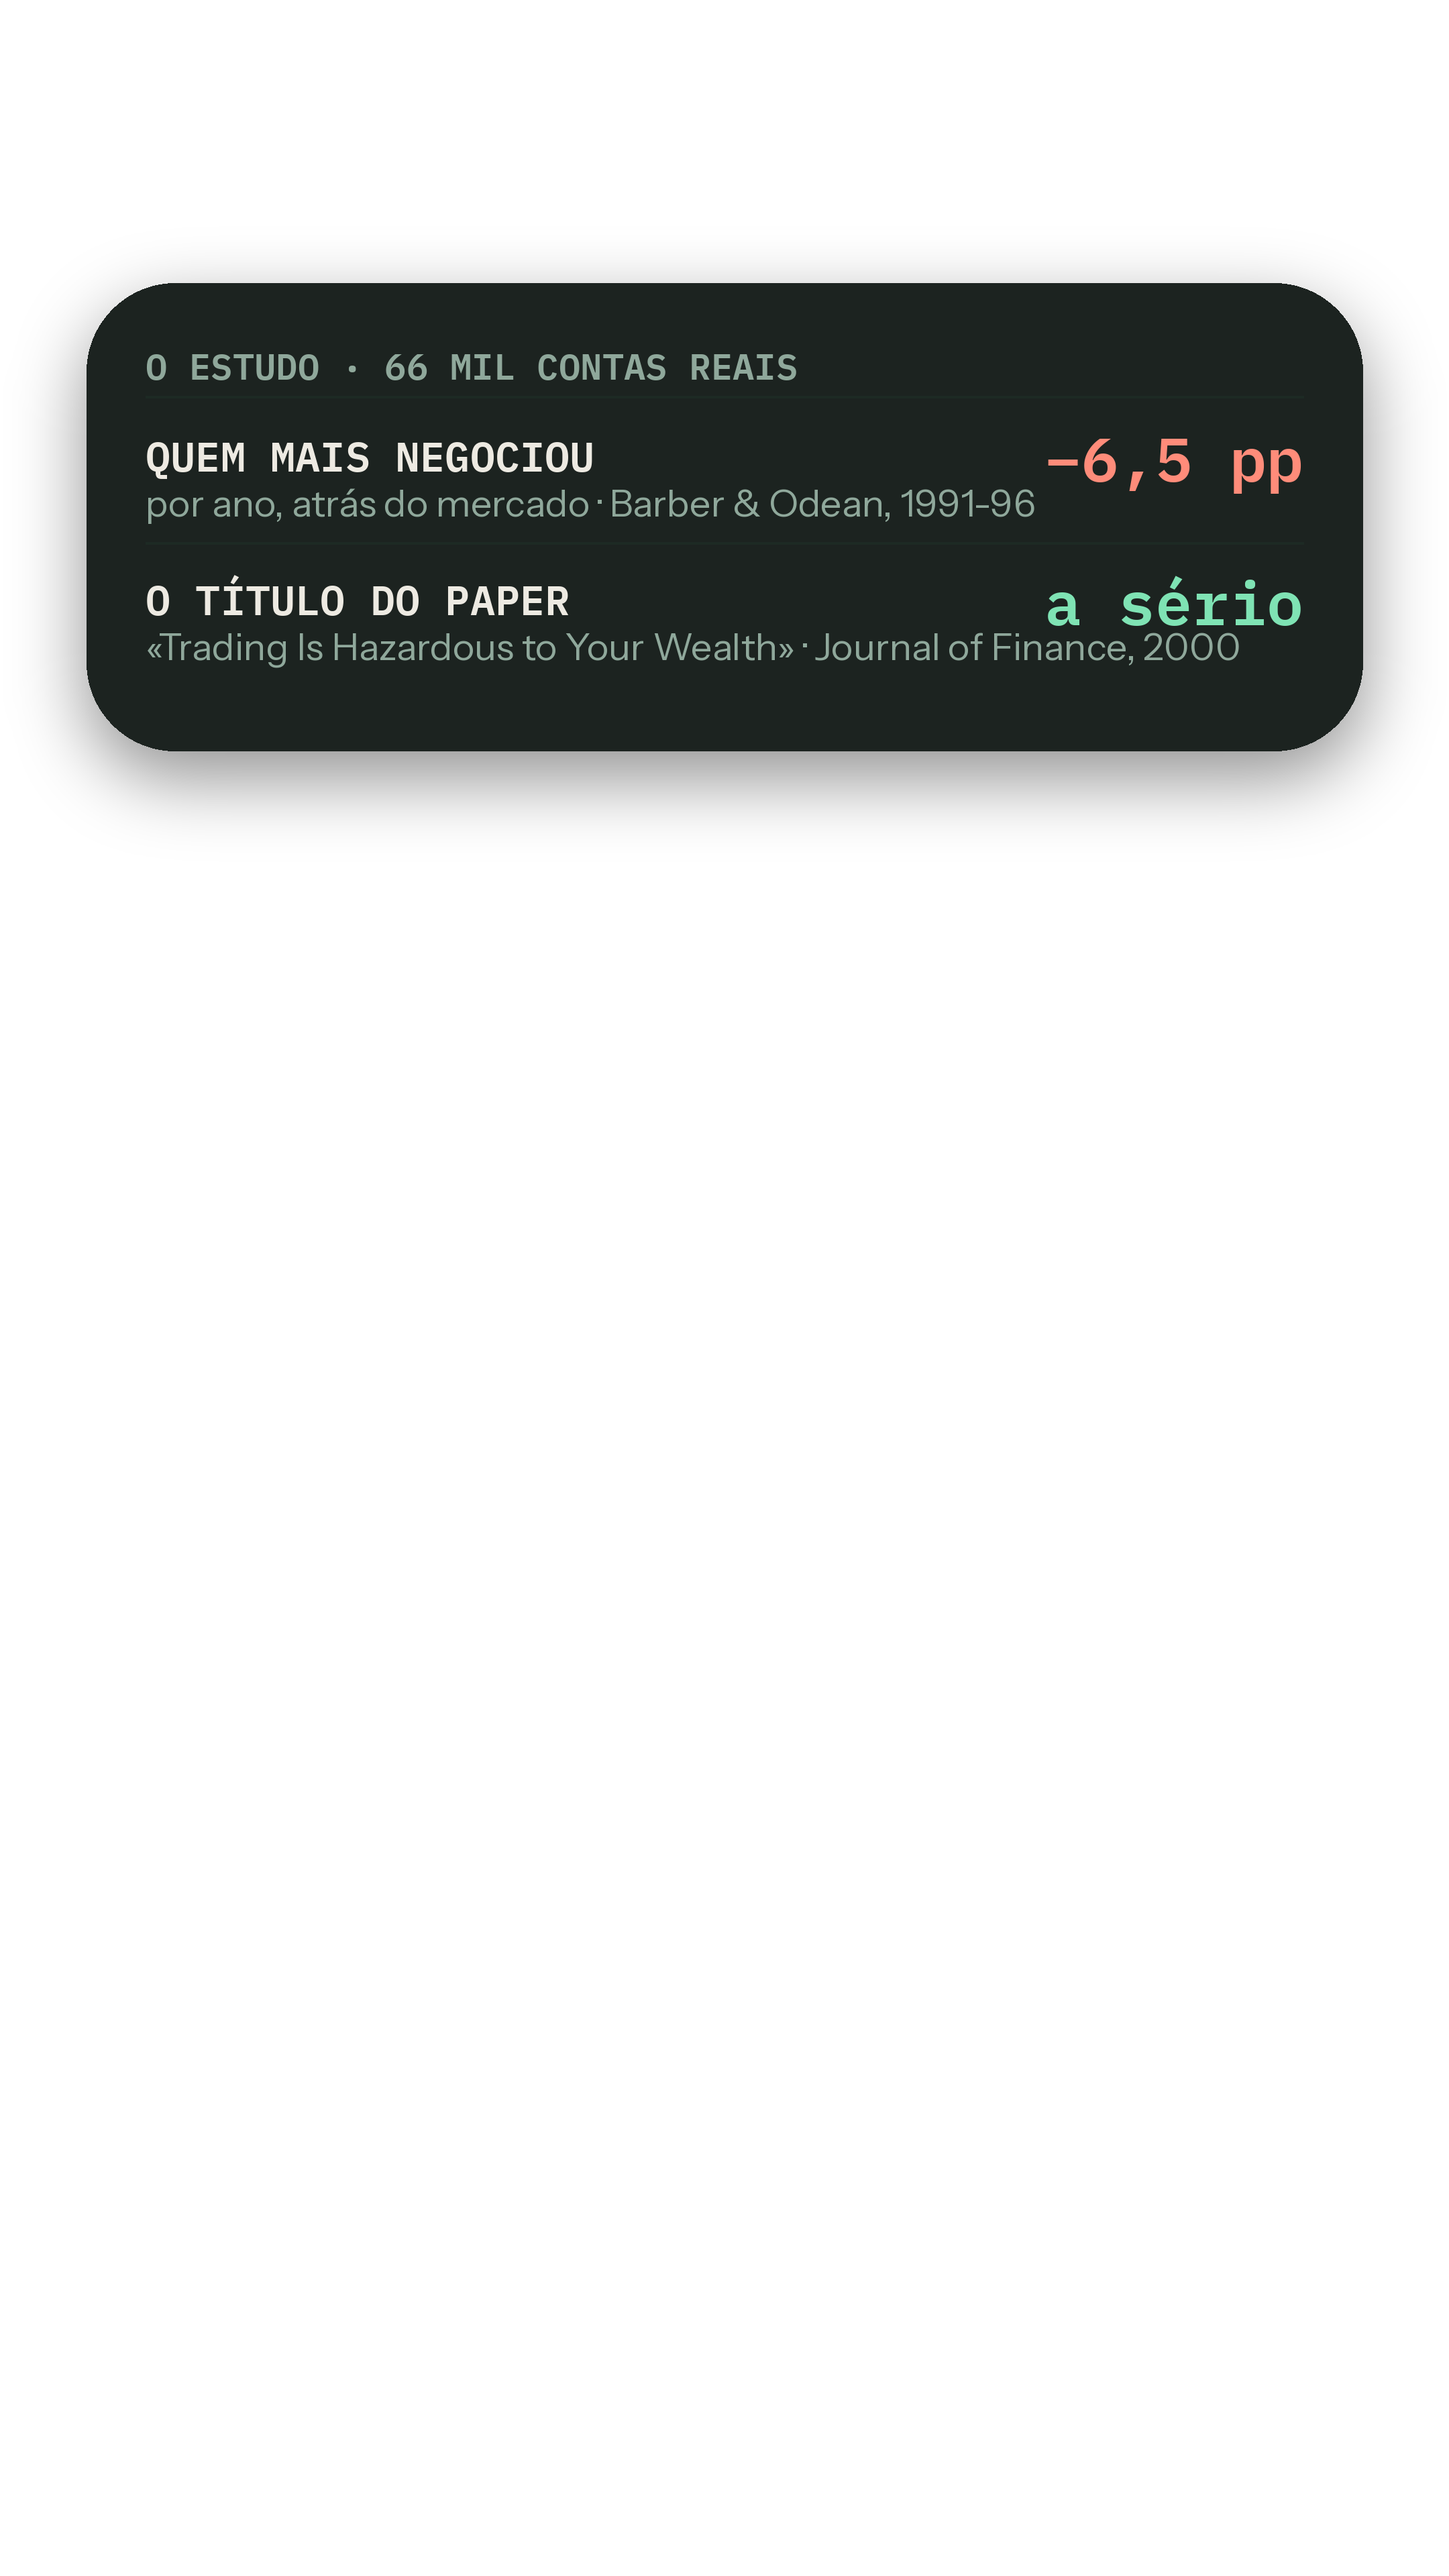
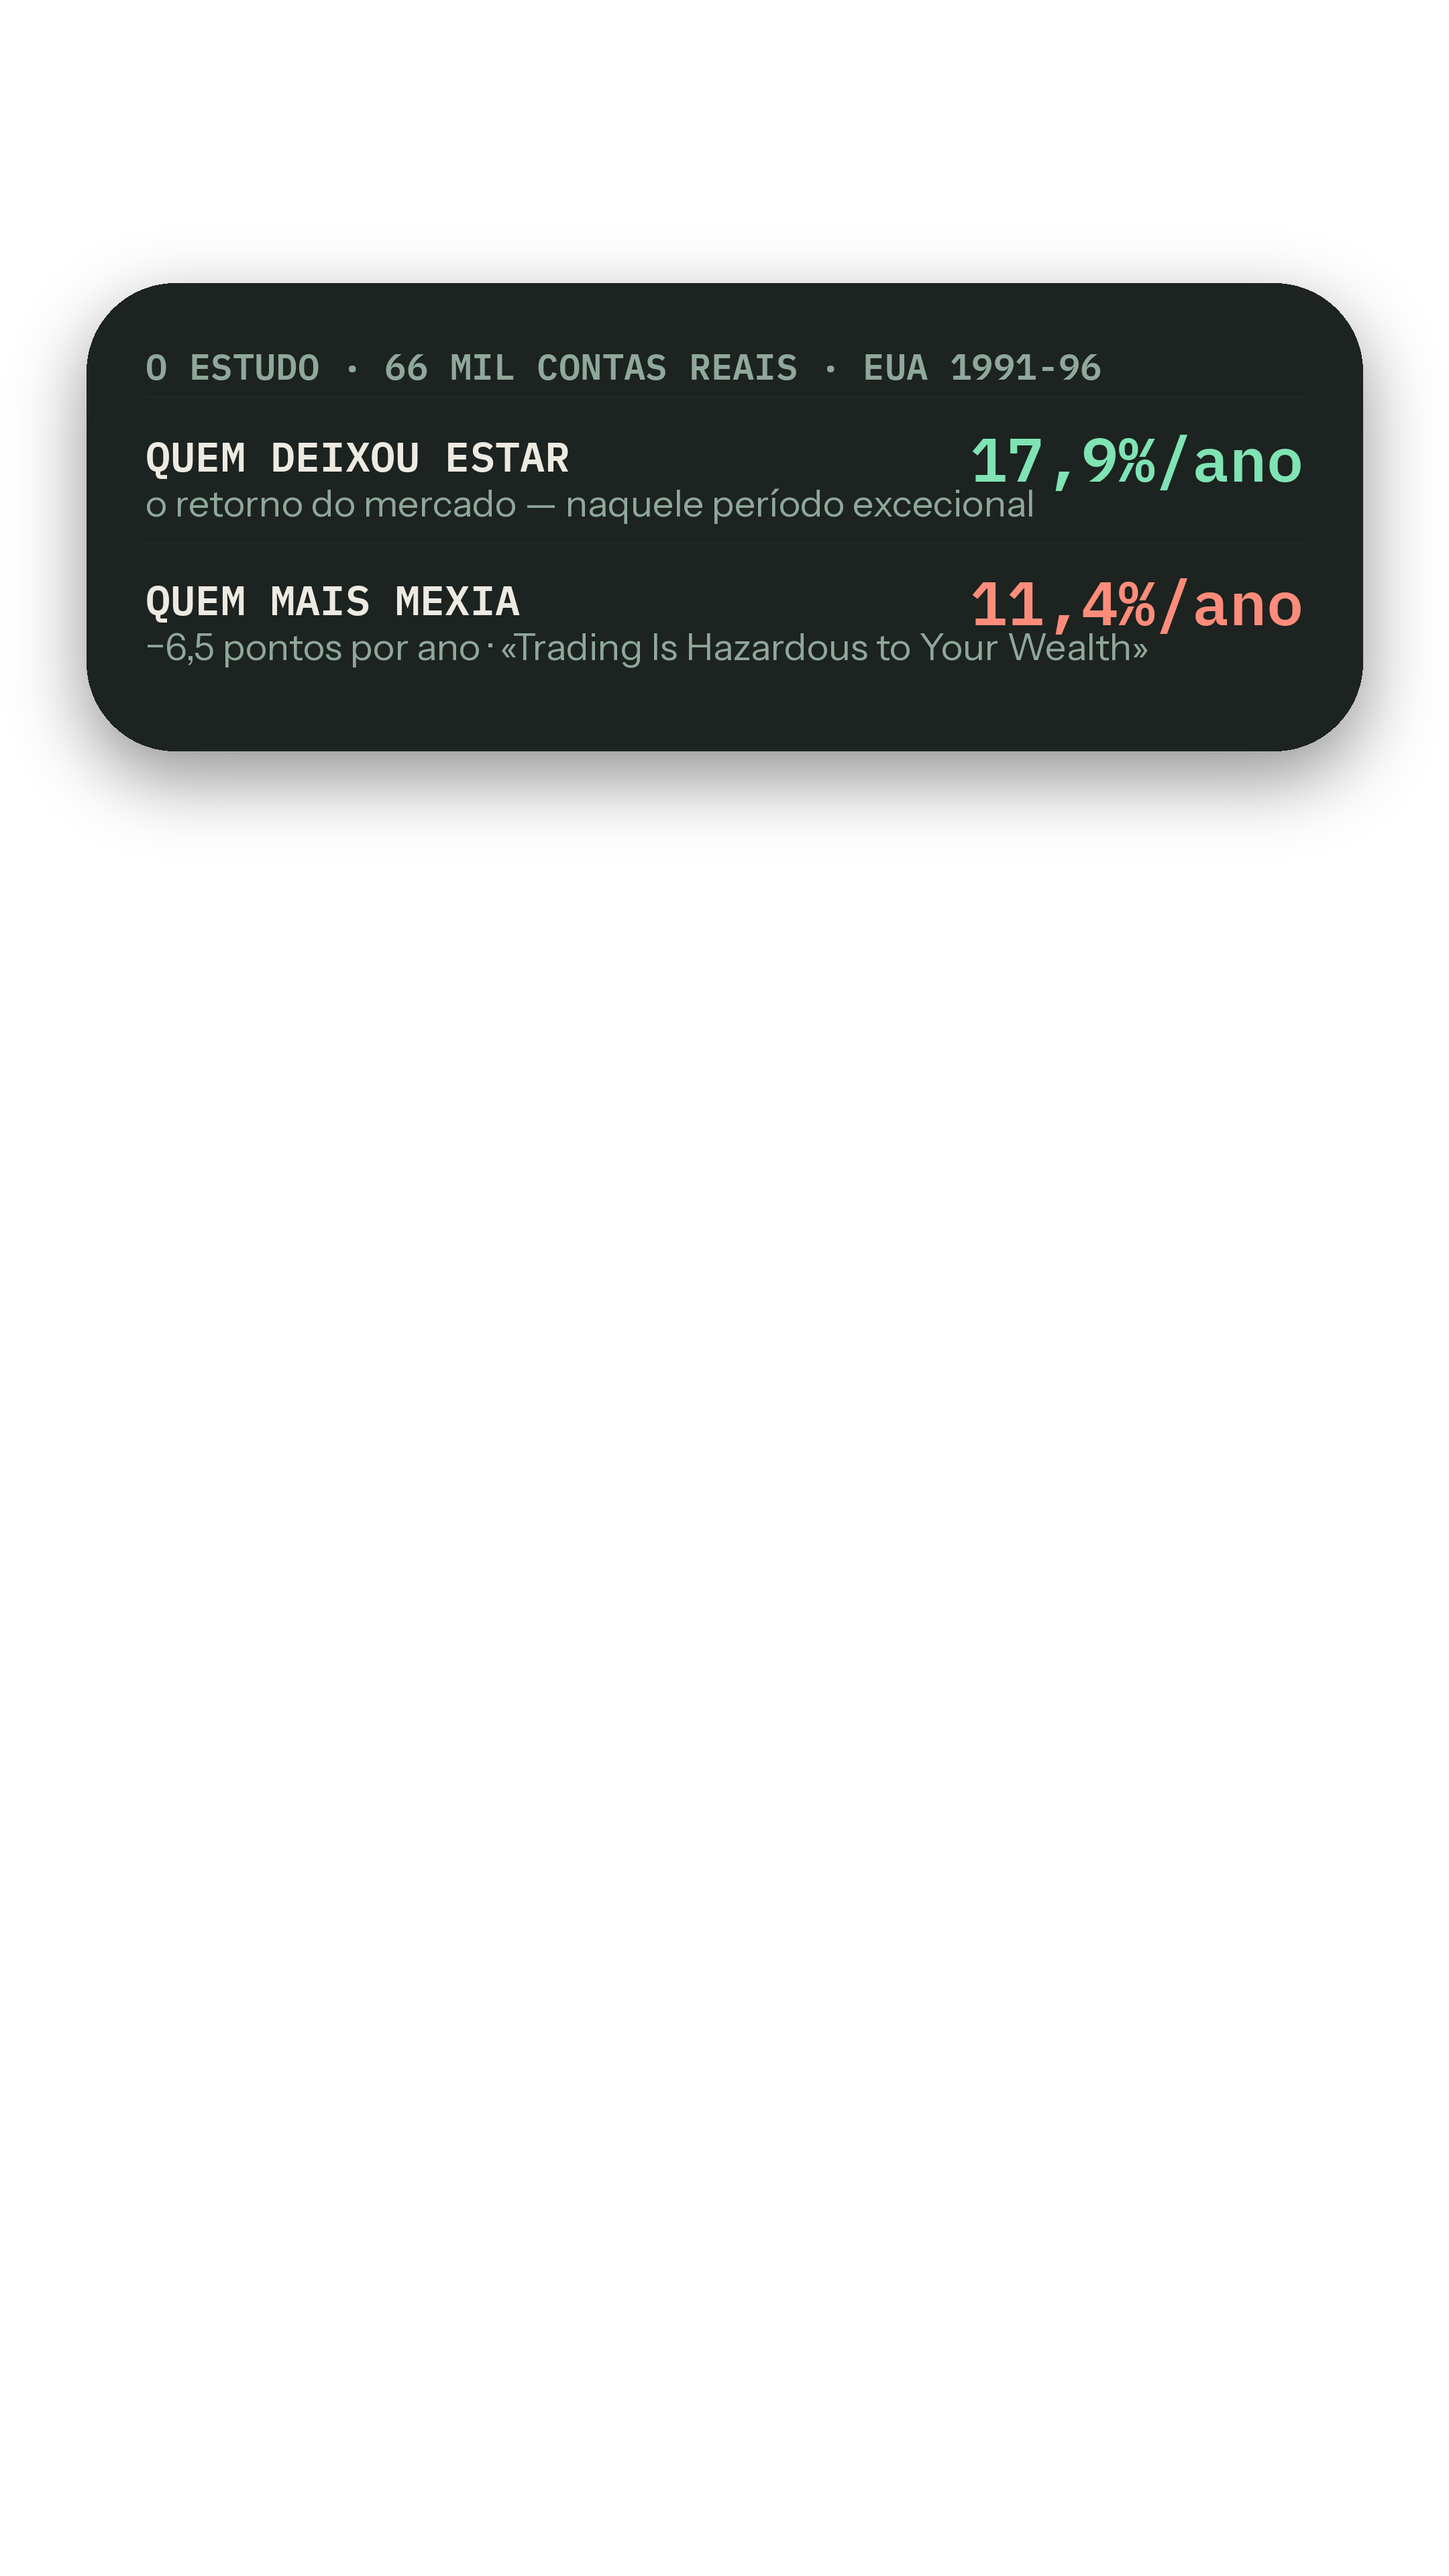
Add files via upload

Changed region(s): [[0.1241, 0.125, 0.8995, 0.2812], [0.4653, 0.25, 0.4963, 0.2812]]

diff --git a/producao/video-19/storyboard.html b/producao/video-19/storyboard.html
@@ -43,47 +43,47 @@ a{color:var(--mint)}
 <div class="row"><span class="k">📺 Overlay</span><span><code>v19-7-fgv.png</code></span></div>
 <div class="row"><span class="k">🏷 Etiqueta</span><span><code>fonte-estudos.png</code> — FONTE: FGV/CVM · 2013-2015</span></div>
 </div></div>
-<div class="bloco"><div class="bhead"><h2>BLOCO 2</h2><span class="t">9-16s</span></div>
-<div class="phone"><div class="sil"></div><div class="noov">SEM OVERLAY — só tu e a câmara</div></div>
-<div class="spec">
-<div class="row"><span class="k">🎙 Fala</span><span class="fala">"Só 1% ganhou mais que um salário mínimo. E não é falta de inteligência — é o cérebro."</span></div>
-<div class="row"><span class="k">🎬 Câmara</span><span>Manter o cartão; a viragem do vídeo começa aqui.</span></div>
-<div class="row"><span class="k">📺 Overlay</span><span>nenhum (manter o anterior / respiro)</span></div>
-<div class="row"><span class="k">🏷 Etiqueta</span><span>fora (sem dado no ecrã)</span></div>
-</div></div>
-<div class="bloco"><div class="bhead"><h2>BLOCO 3</h2><span class="t">16-20s</span></div>
+<div class="bloco"><div class="bhead"><h2>BLOCO 2</h2><span class="t">9-18s</span></div>
 <div class="phone"><div class="sil"></div><img class="ov" src="overlays/v19-1-hook.png" alt=""></div>
 <div class="spec">
-<div class="row"><span class="k">🎙 Fala</span><span class="fala">"O teu faz o mesmo, mesmo sem nunca teres feito trading."</span></div>
-<div class="row"><span class="k">🎬 Câmara</span><span>Dedo à câmara com sorriso — cúmplice, não acusador.</span></div>
+<div class="row"><span class="k">🎙 Fala</span><span class="fala">"Só 1% ganhou mais que um salário mínimo. Não é burrice — é o cérebro. E o teu faz o mesmo, sem nunca teres feito trading."</span></div>
+<div class="row"><span class="k">🎬 Câmara</span><span>A viragem; dedo à câmara com sorriso no fim.</span></div>
 <div class="row"><span class="k">📺 Overlay</span><span><code>v19-1-hook.png</code></span></div>
 <div class="row"><span class="k">🏷 Etiqueta</span><span>fora (sem dado no ecrã)</span></div>
 </div></div>
-<div class="bloco"><div class="bhead"><h2>BLOCO 4</h2><span class="t">20-30s</span></div>
+<div class="bloco"><div class="bhead"><h2>BLOCO 3</h2><span class="t">18-25s</span></div>
 <div class="phone"><div class="sil"></div><img class="ov" src="overlays/v19-2-ciclo.png" alt=""></div>
 <div class="spec">
-<div class="row"><span class="k">🎙 Fala</span><span class="fala">"O mercado sobe, sentes que estás a ficar de fora — compras no topo. Cai, o medo grita mais alto que o plano — vendes no fundo."</span></div>
+<div class="row"><span class="k">🎙 Fala</span><span class="fala">"Sobe — medo de ficar de fora, compras no topo. Cai — o medo grita mais alto que o plano, vendes no fundo."</span></div>
 <div class="row"><span class="k">🎬 Câmara</span><span>Mão desenha a onda; nomear as emoções devagar.</span></div>
 <div class="row"><span class="k">📺 Overlay</span><span><code>v19-2-ciclo.png</code></span></div>
 <div class="row"><span class="k">🏷 Etiqueta</span><span>fora (sem dado no ecrã)</span></div>
 </div></div>
-<div class="bloco"><div class="bhead"><h2>BLOCO 5</h2><span class="t">30-42s</span></div>
-<div class="phone"><div class="sil"></div><img class="ov" src="overlays/v19-6-estudo.png" alt=""></div>
+<div class="bloco"><div class="bhead"><h2>BLOCO 4</h2><span class="t">25-40s</span></div>
+<div class="phone"><div class="sil"></div><img class="ov" src="overlays/v19-8-apps.png" alt=""></div>
 <div class="spec">
-<div class="row"><span class="k">🎙 Fala</span><span class="fala">"A ciência mediu: em 66 mil contas normais, quem mais MEXIA ficou seis vírgula cinco pontos por ano atrás do mercado. O problema não é investir — é mexer por emoção."</span></div>
-<div class="row"><span class="k">🎬 Câmara</span><span>«MEXIA» com ênfase; a frase final é a tese do vídeo.</span></div>
-<div class="row"><span class="k">📺 Overlay</span><span><code>v19-6-estudo.png</code></span></div>
-<div class="row"><span class="k">🏷 Etiqueta</span><span><code>fonte-estudos.png</code> — FONTE: JOURNAL OF FINANCE · 2000</span></div>
+<div class="row"><span class="k">🎙 Fala</span><span class="fala">"«Mas isso era antigamente…» Os cientistas voltaram a medir, na era das apps: comissões zero, tudo mais fácil — e o resultado foi mexer ainda mais. Milhares a comprar a mesma ação da moda, ao mesmo tempo. Um mês depois? Valia menos cinco por cento. Tiraram o atrito — e o atrito era a última defesa contra a emoção."</span></div>
+<div class="row"><span class="k">🎬 Câmara</span><span>A objeção com VOZ DE CÉTICO (meio gozão, sobrancelha); volta ao registo normal no «Os cientistas». «O atrito era a última defesa» dito devagar — é a frase do vídeo.</span></div>
+<div class="row"><span class="k">📺 Overlay</span><span><code>v19-8-apps.png</code></span></div>
+<div class="row"><span class="k">🏷 Etiqueta</span><span><code>fonte-estudos.png</code> — FONTE: JOURNAL OF FINANCE · 2022</span></div>
 </div></div>
-<div class="bloco"><div class="bhead"><h2>BLOCO 6</h2><span class="t">42-51s</span></div>
+<div class="bloco"><div class="bhead"><h2>BLOCO 5</h2><span class="t">40-50s</span></div>
+<div class="phone"><div class="sil"></div><img class="ov" src="overlays/v19-10-letra.png" alt=""></div>
+<div class="spec">
+<div class="row"><span class="k">🎙 Fala</span><span class="fala">"A prova de hoje? Por lei, as corretoras de trading rápido têm de escrever no site: setenta a oitenta por cento dos clientes perdem. Está lá. Na letra pequena."</span></div>
+<div class="row"><span class="k">🎬 Câmara</span><span>Apontar para baixo no «letra pequena»; o take que qualquer cético verifica em 10 segundos.</span></div>
+<div class="row"><span class="k">📺 Overlay</span><span><code>v19-10-letra.png</code></span></div>
+<div class="row"><span class="k">🏷 Etiqueta</span><span>fora (sem dado no ecrã)</span></div>
+</div></div>
+<div class="bloco"><div class="bhead"><h2>BLOCO 6</h2><span class="t">50-55s</span></div>
 <div class="phone"><div class="sil"></div><img class="ov" src="overlays/v19-4-defesa.png" alt=""></div>
 <div class="spec">
-<div class="row"><span class="k">🎙 Fala</span><span class="fala">"A defesa: uma estratégia decidida a frio, automática, todos os meses. Tu defines as regras antes — o plano cumpre-as por ti."</span></div>
+<div class="row"><span class="k">🎙 Fala</span><span class="fala">"A defesa: estratégia decidida a frio, automática. As regras defines tu — antes."</span></div>
 <div class="row"><span class="k">🎬 Câmara</span><span>Tom de solução; mãos calmas.</span></div>
 <div class="row"><span class="k">📺 Overlay</span><span><code>v19-4-defesa.png</code></span></div>
 <div class="row"><span class="k">🏷 Etiqueta</span><span>fora (sem dado no ecrã)</span></div>
 </div></div>
-<div class="bloco"><div class="bhead"><h2>BLOCO 7</h2><span class="t">51-55s</span></div>
+<div class="bloco"><div class="bhead"><h2>BLOCO 7</h2><span class="t">55-59s</span></div>
 <div class="phone"><div class="sil"></div><img class="ov" src="overlays/v19-5-cta.png" alt=""></div>
 <div class="spec">
 <div class="row"><span class="k">🎙 Fala</span><span class="fala">"Já te apanhaste a decidir com o medo? Eu já."</span></div>
@@ -99,6 +99,7 @@ Já te apanhaste? Confessa 👇
 
 #investir #psicologia #fgv #daytrading #financaspessoais #fcd19</div>
 <h2 class="sec">1.º comentário — publicar e FIXAR</h2><div class="pos">Já te apanhaste a decidir com o medo? Confessa 👇 (eu já)
-(rigor: FGV/CVM — Chague, De-Losso & Giovannetti: TODOS os que começaram day trading no mercado de futuros brasileiro em 2013-15 e persistiram 300+ sessões — 97% perderam; só 1,1% ganhou mais que o salário mínimo; só 0,4% mais que um caixa de banco; o melhor: ~US$310/dia com risco brutal. E nas contas normais: Barber & Odean, Journal of Finance 2000 — 66.465 contas; quem mais negociava rendeu ~11,4%/ano vs ~17,9% do mercado. Nota importante: investir não é o problema — mexer por emoção, sem estratégia, é)</div>
+Já te apanhaste a decidir com o medo? Confessa 👇 (eu já)
+(rigor das provas: FGV/CVM 2013-15 — 97% dos persistentes 300+ sessões perderam; só 1,1% > salário mínimo; 0,4% > caixa de banco. Era das apps: Barber, Huang, Odean & Schwarz, Journal of Finance 2022 — as ações compradas em manada no Robinhood renderam ~−5% no mês seguinte; menos atrito = mais transações = piores resultados. E a clássica, para completar 30 anos de ciência: Barber & Odean 2000, 66.465 contas — quem mais negociava rendeu 11,4%/ano vs 17,9% do mercado (década excecional, não expectativa). Os avisos de 70-80%: obrigatórios por lei na UE (ESMA) nos sites de CFDs — varia por corretora, tipicamente 65-85%; confirma em qualquer uma. Nota final: investir não é o problema — mexer por emoção, sem estratégia, é)</div>
 <h2 class="sec">Fecho</h2><div class="pos"><b>Exportar</b> 2160p · 30fps · bitrate alto → capa com template → publicar → nota de rigor fixada → 60 min de comentários → dashboard (estado+métricas) → ⬇ performance.json → commit → linha no learnings.md</div>
 </div></body></html>
